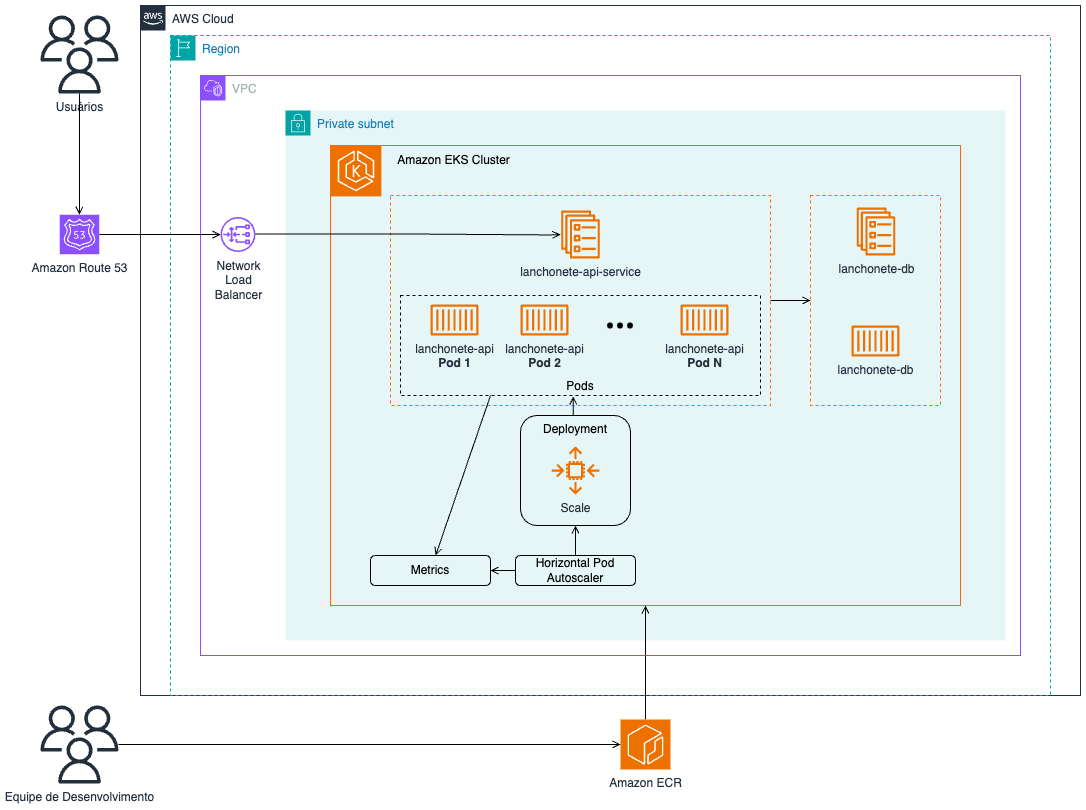
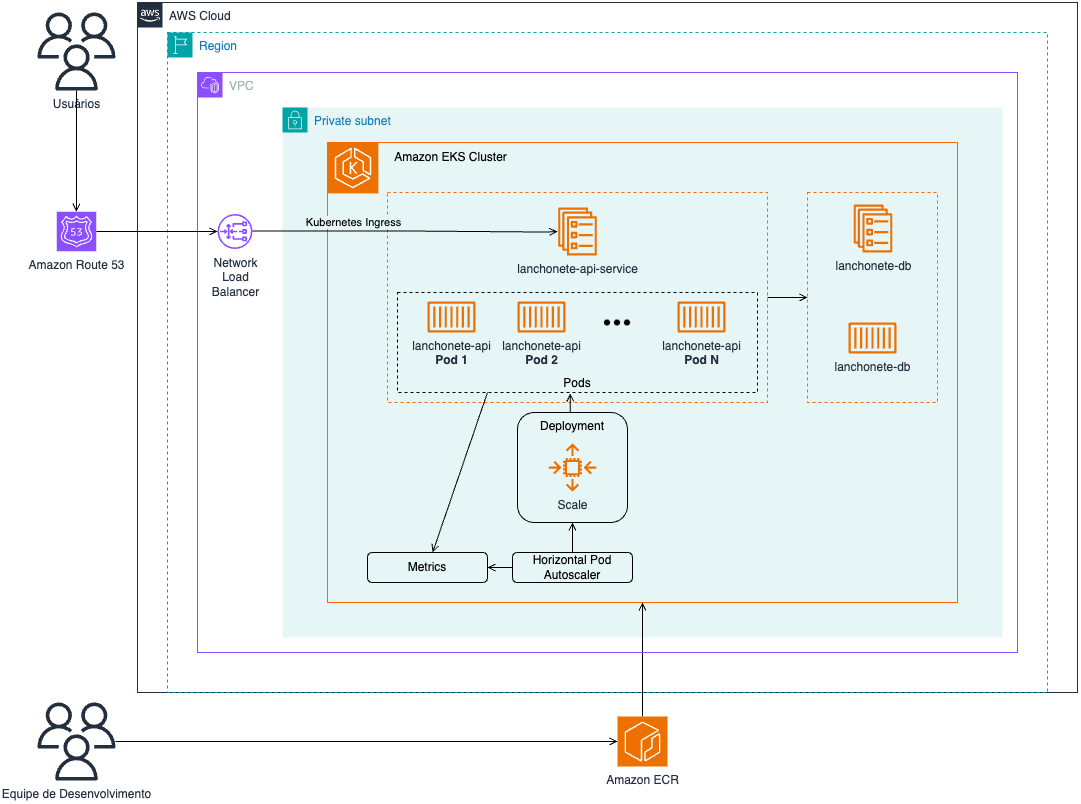
Documentação da Arquitetura (#68)
* doc: update project structure

* doc: add k8s commands

* doc: atualiza estrutura do projeto

* refactor: rename gateways to interfaces in core

* doc: fix presenters on project structure image

* doc: fix project structure image

* doc: add table of contents

* doc: add project from phase two

* doc: add functional and non-functional requirements

* build: update project structure

* doc: adjust contents

* doc: add section for architectur

* build: extract password to secret

* doc: update application architecture

* doc: update k8s architecture

* test: create script for k6 test and document on README

* doc: document aws architecture

* doc: update table of contents

diff --git a/README.md b/README.md
@@ -6,15 +6,97 @@ Desenvolvido por @ThawanFidelis, @gabrielescodino, @vitorrafael e @anadezuo.
 
 #### Tabela de Conteúdos
 
-1. [Rodando o Projeto](#rodando-o-projeto)
+1. [Requisitos](#requisitos)
+2. [Arquitetura](#arquitetura)
+   1. [Arquitetura da Aplicação](#arquitetura-da-aplicação)
+   2. [Arquitetura do Kubernetes](#arquitetura-do-kubernetes)
+   3. [Arquitetura AWS - Concepção](#arquitetura-aws---concepção)
+3. [Rodando o Projeto](#rodando-o-projeto)
    1. [Pré-Requsiitos](#pré-requisitos)
    2. [Executando o Docker](#executando-o-docker)
    3. [Executando o Kubernetes](#executando-o-kubernetes)
    4. [Acessando as APIs](#acessando-as-apis)
    5. [Executando os Testes](#executando-os-testes)
-2. [Tarefas](#tarefas)
-3. [Tecnologias & Bibliotecas](#tecnologias--bibliotecas)
-4. [Estrutura do Projeto](#estrutura-do-projeto)
+4. [Tarefas](#tarefas)
+5. [Tecnologias & Bibliotecas](#tecnologias--bibliotecas)
+6. [Estrutura do Projeto](#estrutura-do-projeto)
+
+## Requisitos
+
+### Requisitos Funcionais
+
+| Identificador | Descrição                                                                                                                                                  |
+| ------------- | ---------------------------------------------------------------------------------------------------------------------------------------------------------- |
+| RF-1          | Aplicação deve fornecer API para cadastrar o cliente.                                                                                                      |
+| RF-2          | Aplicação deve fornecer API para identificar o cliente por CPF.                                                                                            |
+| RF-3          | Aplicação deve fornecer API para criar, editar e remover produtos.                                                                                         |
+| RF-4          | Aplicação deve fornecer API para buscar produtos por categoria.                                                                                            |
+| RF-5          | Aplicação deve fornecer API para realizar o checkout do pedido; durante a Fase 1, deverá ser implementado um _fake checkout_.                              |
+| RF-6          | Aplicação deve fornecer API para listar os pedidos.                                                                                                        |
+| RF-7          | Aplicação deve fornecer API para consultar o status de pagamento do pedido, se foi aprovado ou recusado.                                                   |
+| RF-8          | Aplicação deve fornecer um _webhook_ para receber confirmação do pagamento aprovado ou recusado.                                                           |
+| RF-9          | Aplicação deverá ordernar os pedidos pelo status 'Pronto' > 'Em Preparação' > 'Recebido' e data de criação. Pedidos 'Finalizado' não devem ser retornados. |
+| RF-10         | Aplicação deverá fornecer API para atualizar o status do pedido.                                                                                           |
+| RF-11         | \[**Opcional**\] Aplicação deverá integrar com Mercado Pago.                                                                                               |
+
+### Requisitos Não-Funcionais
+
+| Identificador | Descrição                                                                                                                           |
+| ------------- | ----------------------------------------------------------------------------------------------------------------------------------- |
+| RNF-1         | Aplicação deverá ser desenvolvida seguindo os princípios de Arquitetura Limpa                                                       |
+| RNF-2         | Aplicação deverá fornecer a documentação das APIs por Swagger ou Postman Collection                                                 |
+| RNF-3         | Infraestrutura - Aplicação deverá ser desenvolvida utilizando Kubernetes para aumentar a sua resiliência.                           |
+| RNF-4         | Infraestrutura - Aplicação deverá suportar o aumento de demanda, subindo novas instâncias conforme o número de requisições aumenta. |
+
+## Arquitetura
+
+### Arquitetura da Aplicação
+
+A aplicação foi desenvolvida seguindo os princípios da Arquitetura Limpa (Clean Architecture) proposta por Robert C. Martin. O objetivo é garantir que as regras de negócio fiquem isoladas e independentes de detalhes externos, como frameworks ou banco de dados, facilitando a manutenção, escalabilidade e testabilidade da aplicação.
+
+* **Enterprise Business Rules**: Camada que contém as entidades (_Entities_) do domínio, que representam os conceitos centrais e regras mais importantes da aplicação que garantem a consistência das regras de negócio. São independentes de infraestrutura ou do caso de uso em que são utilizadas.
+* **Aplication Business Rules**: Camada que contém os casos de uso (_Use Case_) que definem como as entidades interagem entre si para cumprir os requisitos funcionais da aplicação. São independentes dos detalhes de infraestrutura e dependem apenas de interfaces para interagir com objetos externos.
+* **Interface Adapters**: Camada que adapta a entrada e saída de dados entre o sistema e os consumidores externos, responsável pela lógica que conecta os casos de uso ao mundo exterior. Seus principais componentes são:
+  * **Gateways:** Implementações das interfaces dos casos de uso para acessar sistemas externos (exemplo: banco de dados, sistemas de pagamento);
+  * **Presenters:** Adaptam o resultado dos casos de uso para as camadas externas conforme o formato esperado;
+  * **Controllers:** Recebem as requisições externas e executam os casos de uso com suas respectivas dependências.
+* **Frameworks & Drivers**: Camada com  _frameworks_ e serviços externos usados pela aplicação como bibliotecas de _Web API_, objetos que encapsulam comunicação com banco de dados, sistemas externos, etc. Serve apenas para viabilizar a interação com o mundo exterior, sem lógica de negócios.
+
+No diagrama a seguir, é possível identificar que cada camada se comunica de forma unidirecional, com as camadas externas dependendo das internas. Isso garante que as regras de negócio permaneçam independentes de detalhes técnicos. Para tanto, é necessário seguir os princípios SOLID como o _Single Responsibility Principle_, uma vez que cada objeto e camada tem uma única responsabilidade, e o _Dependency Inversion Principle_, visto que as camadas internas dependem de abstrações e as implementações são fornecidas pelas camadas externas.
+![Arquitetura da Aplicação](diagrams/application-architecture.png)
+
+### Arquitetura do Kubernetes
+
+A arquitetura K8s foi desenvolvida para permitir a escalabilidade do sistema conforme a demanda. O diagrama a seguir representa essa estrutura:
+![Arquitetura K8s](diagrams/k8s-architecture.png)
+
+A aplicação opera dentro de um cluster Kubernetes, onde os _nodes_ seguem a seguinte estrutura:
+* **Deployment lanchonete-api:** Responsável por gerenciar os pods que executam a aplicação desenvolvida. Possui um **Horizontal Pod Autoscaler (HPA)** associado para monitorar a utilização de CPU e escalar horizontalmente os pods, a fim de suportar a demanda por recursos. É exposto ao exterior através de um **Service NodePort** para que clientes consigam consumir as APIs desenvolvidas.
+* **StatefulSet lanchonete-db:** Responsável por gerenciar o banco de dados da aplicação. Está vinculado a um **Persistent Volume Claim (PVC)** para garantir o armazenamento persistente dos dados, utilizando um Persistent Volume. O banco de dados é acessível apenas dentro do cluster K8s por meio de um **ClusterIP Service**, de forma que os pods da aplicação possam se conectar ao banco de dados de maneira segura.
+* **ConfigMaps lanchonete-api-config e lanchonete-db-config**: Utilizados para armazenar os valores de configuração da API e do banco de dados, como parâmetros não sensíveis e informações de ambiente.
+* **Secret lanchonete-db-secret:** Utilizado para armazenar valores sensíveis, como a senha de acesso ao banco de dados.
+
+#### Fluxo de Comunicação
+1. O NodePort Service expõe a API externamente, encaminhando as requisições para os diferentes pods gerenciados pelo Deployment `lanchonete-api`.
+2. Os pods `lanchonete-api` se comunicam com o `lanchonete-db` por meio de um ClusterIP Service, que encaminha as requisições para os pods do banco de dados, gerenciados pelo StatefulSet. Assim, o `lanchonete-api` pode realizar as operações necessárias no banco de dados.
+  > Os ConfigMaps e o Secret são utilizados durante a inicialização dos pods para configurar a conexão com o banco de dados e outros serviços externos
+
+### Arquitetura AWS - Concepção
+
+> **Importante:** A arquitetura descrita a seguir é apenas uma concepção da equipe de desenvolvimento sobre a aplicação em ambiente AWS. Não foi implementada e testada, estando passível de correções e mudanças para suportar os requerimentos com mais desempenho, segurança e observabilidade.
+
+![Arquitetura AWS](diagrams/aws-eks-architecture-diagram.png)
+
+A arquitetura proposta utiliza serviços gerenciados da AWS para oferecer uma solução escalável e resiliente. Seguem os principais componentes:
+* **Amazon Route 53**: Os usuários finais interagem com a API por meio do **Amazon Route 53**, que atua como um serviço de DNS gerenciado para rotear o tráfego.
+
+* **Network Load Balancer (NLB)**: Encaminha as requisições dentro da **Virtual Private Cloud (VPC)** para o **Amazon Elastic Kubernetes Service (EKS)**. 
+
+* **Kubernetes Ingress**: Gerencia o roteamento das requisições para os serviços corretos da aplicação.
+
+* **Amazon EKS (Elastic Kubernetes Service)**: A aplicação é implantada em um **Amazon EKS Cluster** dentro de uma **sub-rede privada**. Os detalhes sobre o Cluster K8S podem ser encontrados em [Arquitetura do Kubernetes](#arquitetura-do-kubernetes)
+
+* **Amazon ECR (Elastic Container Registry)**: Armazenamento das imagens dos containers da aplicação, facilitando a atualização dos pods dentro do cluster EKS que utilizam a tag _latest_.
 
 ## Rodando o Projeto
 
@@ -58,6 +140,9 @@ Ao acessar a URL `http://localhost:8080/` (`docker compose`) ou `http://localhos
 
 Execute `npm run test` para rodar os testes unitários da aplicação
 
+Execute teste de carga `k6` com `npm run test:k8s`
+> Obs.: Instale o `k6` em sua máquina conforme: https://grafana.com/docs/k6/latest/set-up/install-k6/
+
 ## Tarefas
 
 As tarefas estão descritas em projetos da organização do GitHub.
@@ -99,4 +184,4 @@ As tarefas estão descritas em projetos da organização do GitHub.
 
 **OBS:** O arquivo `.env` foi compartilhado neste repositório para fins didáticos e facilidade nos testes, sendo esta uma má prática em ambientes de desenvolvimento real.
 
-![Estrutura do Projeto](assets/ProjectStructure.png)
+![Estrutura do Projeto](diagrams/project-structure.png.png)
